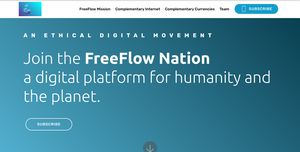
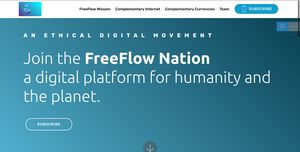
update

Changed region(s): [[0.9, 0.0, 1.0, 0.2368], [0.48, 0.9737, 0.51, 1.0]]

diff --git a/index.html b/index.html
@@ -63,7 +63,7 @@
     </nav>
 </section>
 
-<section class="engine"><a href="https://mobirise.info/w">html5 templates</a></section><section class="header11 cid-rl5rfJ89xI" id="header11-1">
+<section class="engine"><a href="https://mobirise.info/d">site maker</a></section><section class="header11 cid-rl5rfJ89xI" id="header11-1">
 
     <!-- Block parameters controls (Blue "Gear" panel) -->
     
@@ -210,7 +210,7 @@
         <div class="row py-2 justify-content-center">
             <div class="col-12 col-lg-6  col-md-8 " data-form-type="formoid">
                 <!---Formbuilder Form--->
[2 lines of base64/hex data omitted]
                     <div class="row">
                         <div hidden="hidden" data-form-alert="" class="alert alert-success col-12">Thanks for filling out the form!</div>
                         <div hidden="hidden" data-form-alert-danger="" class="alert alert-danger col-12">
